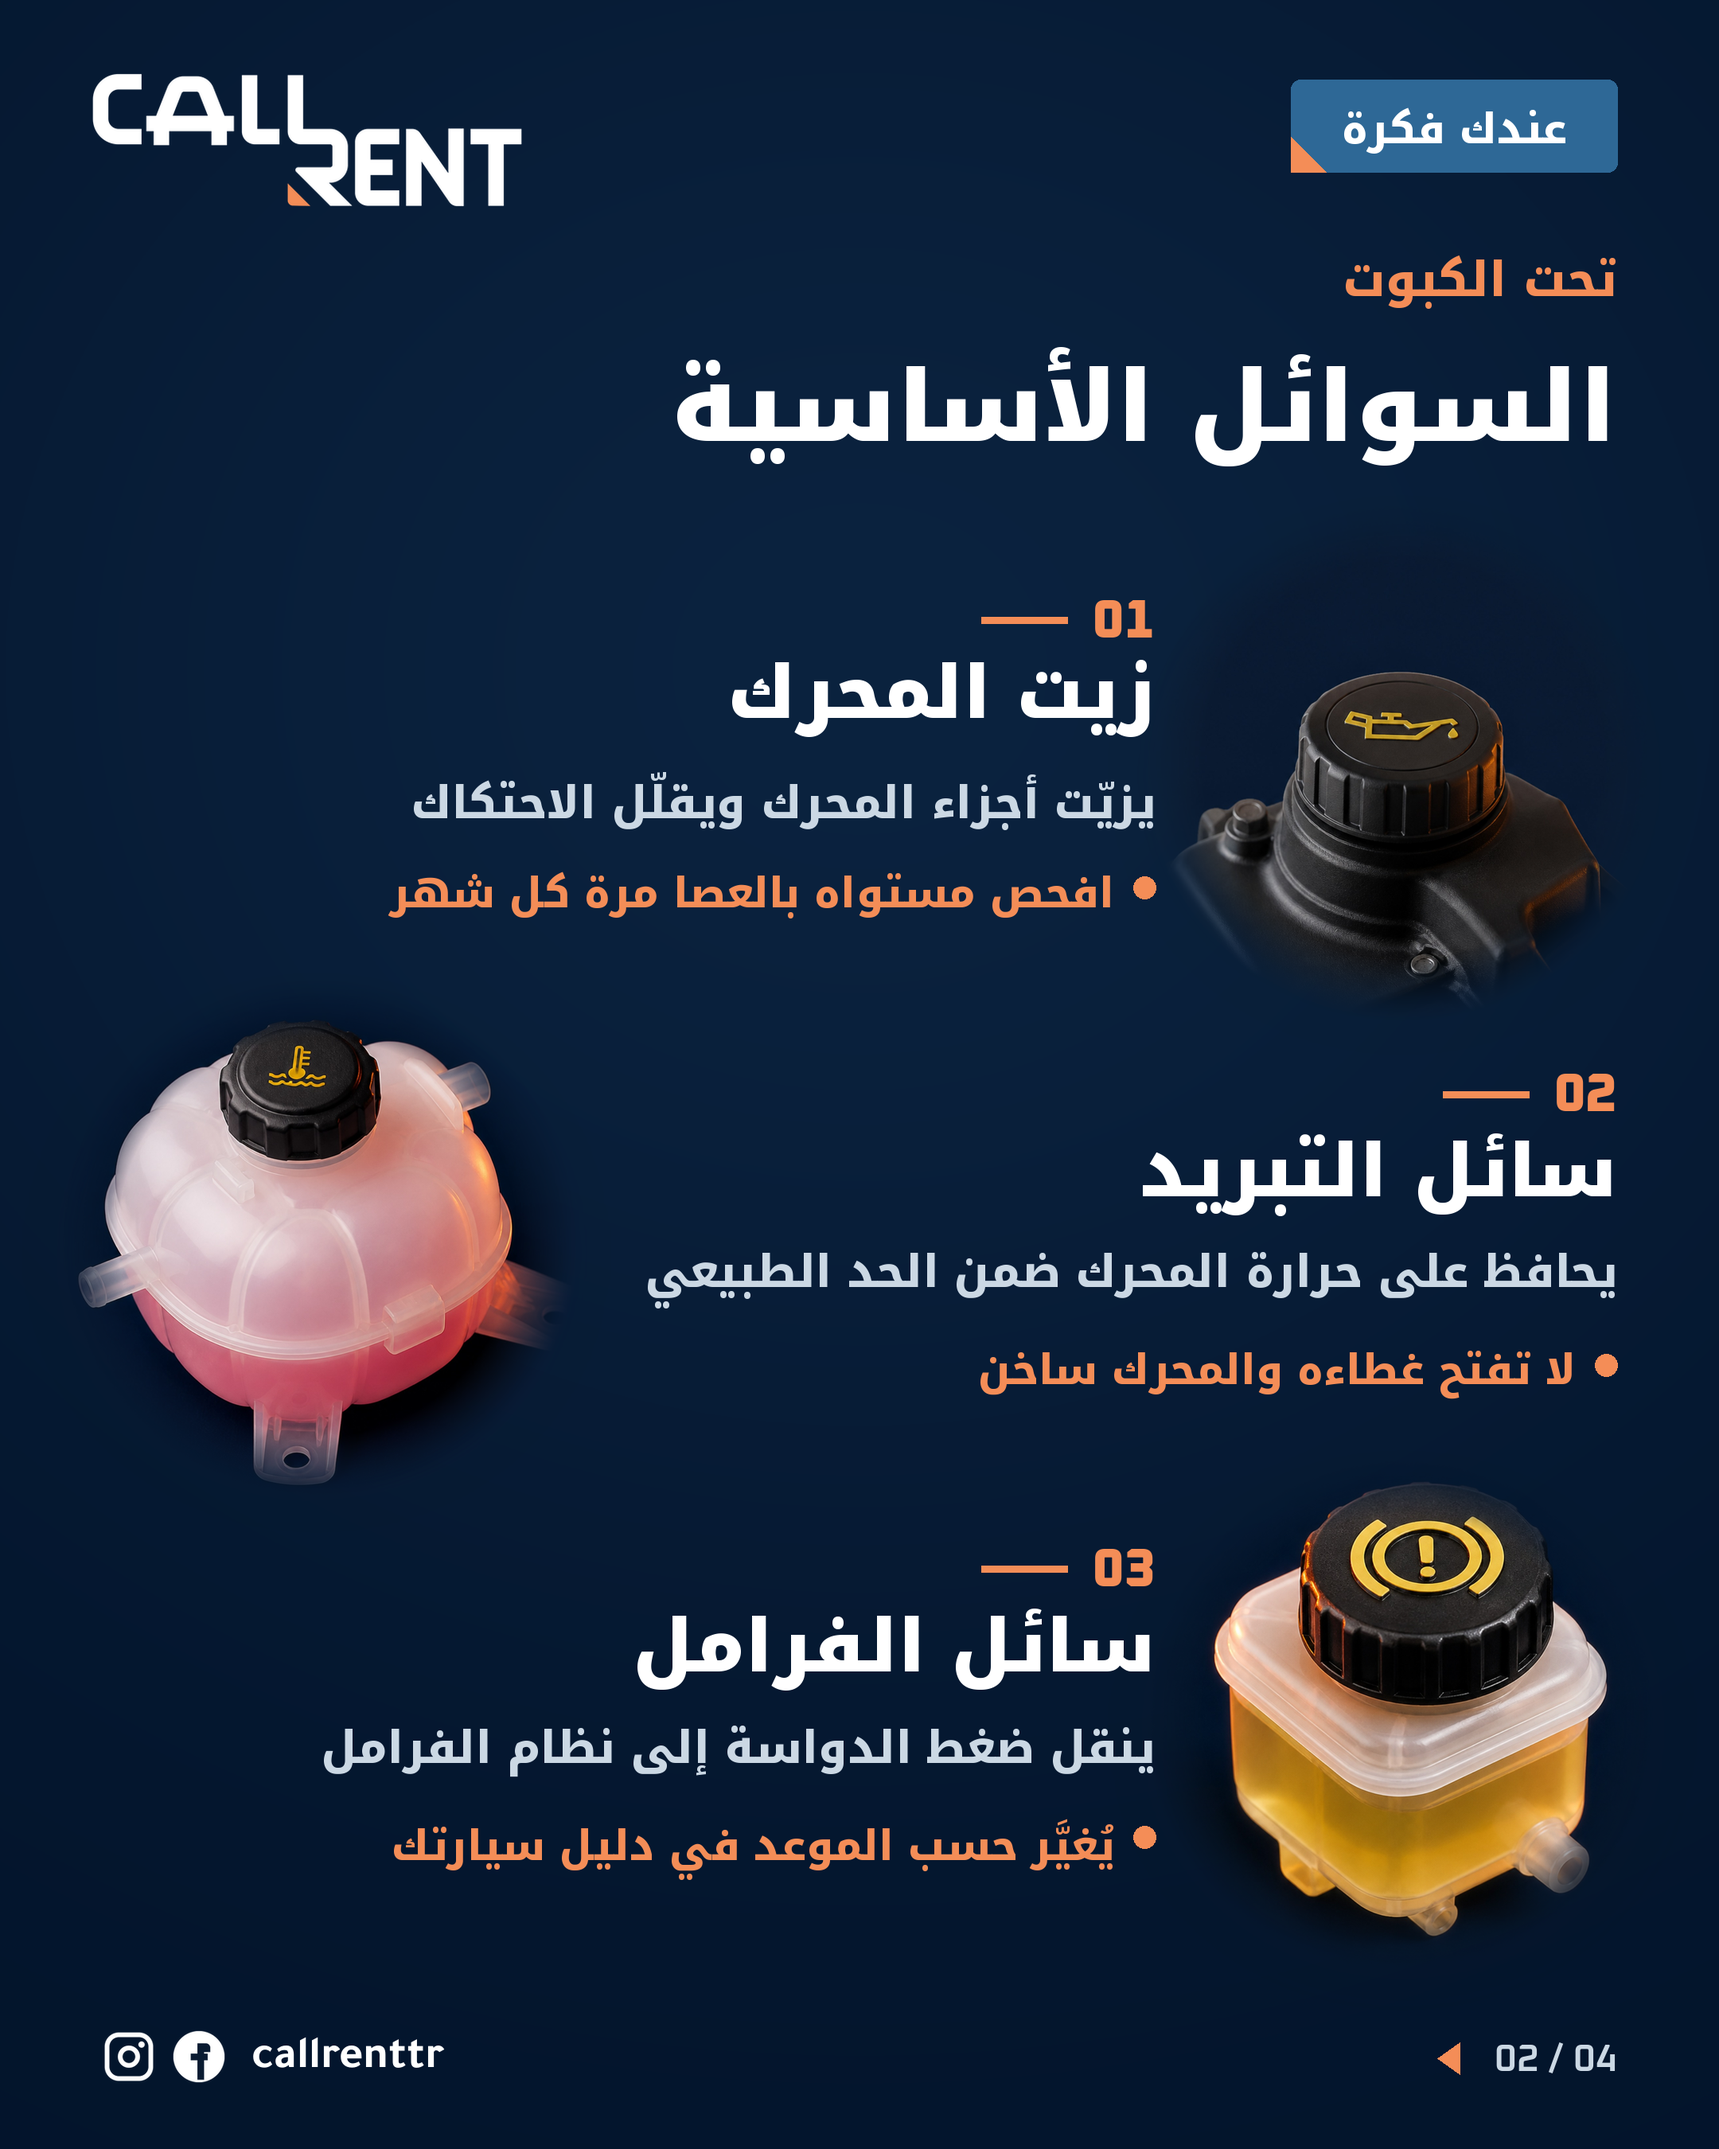
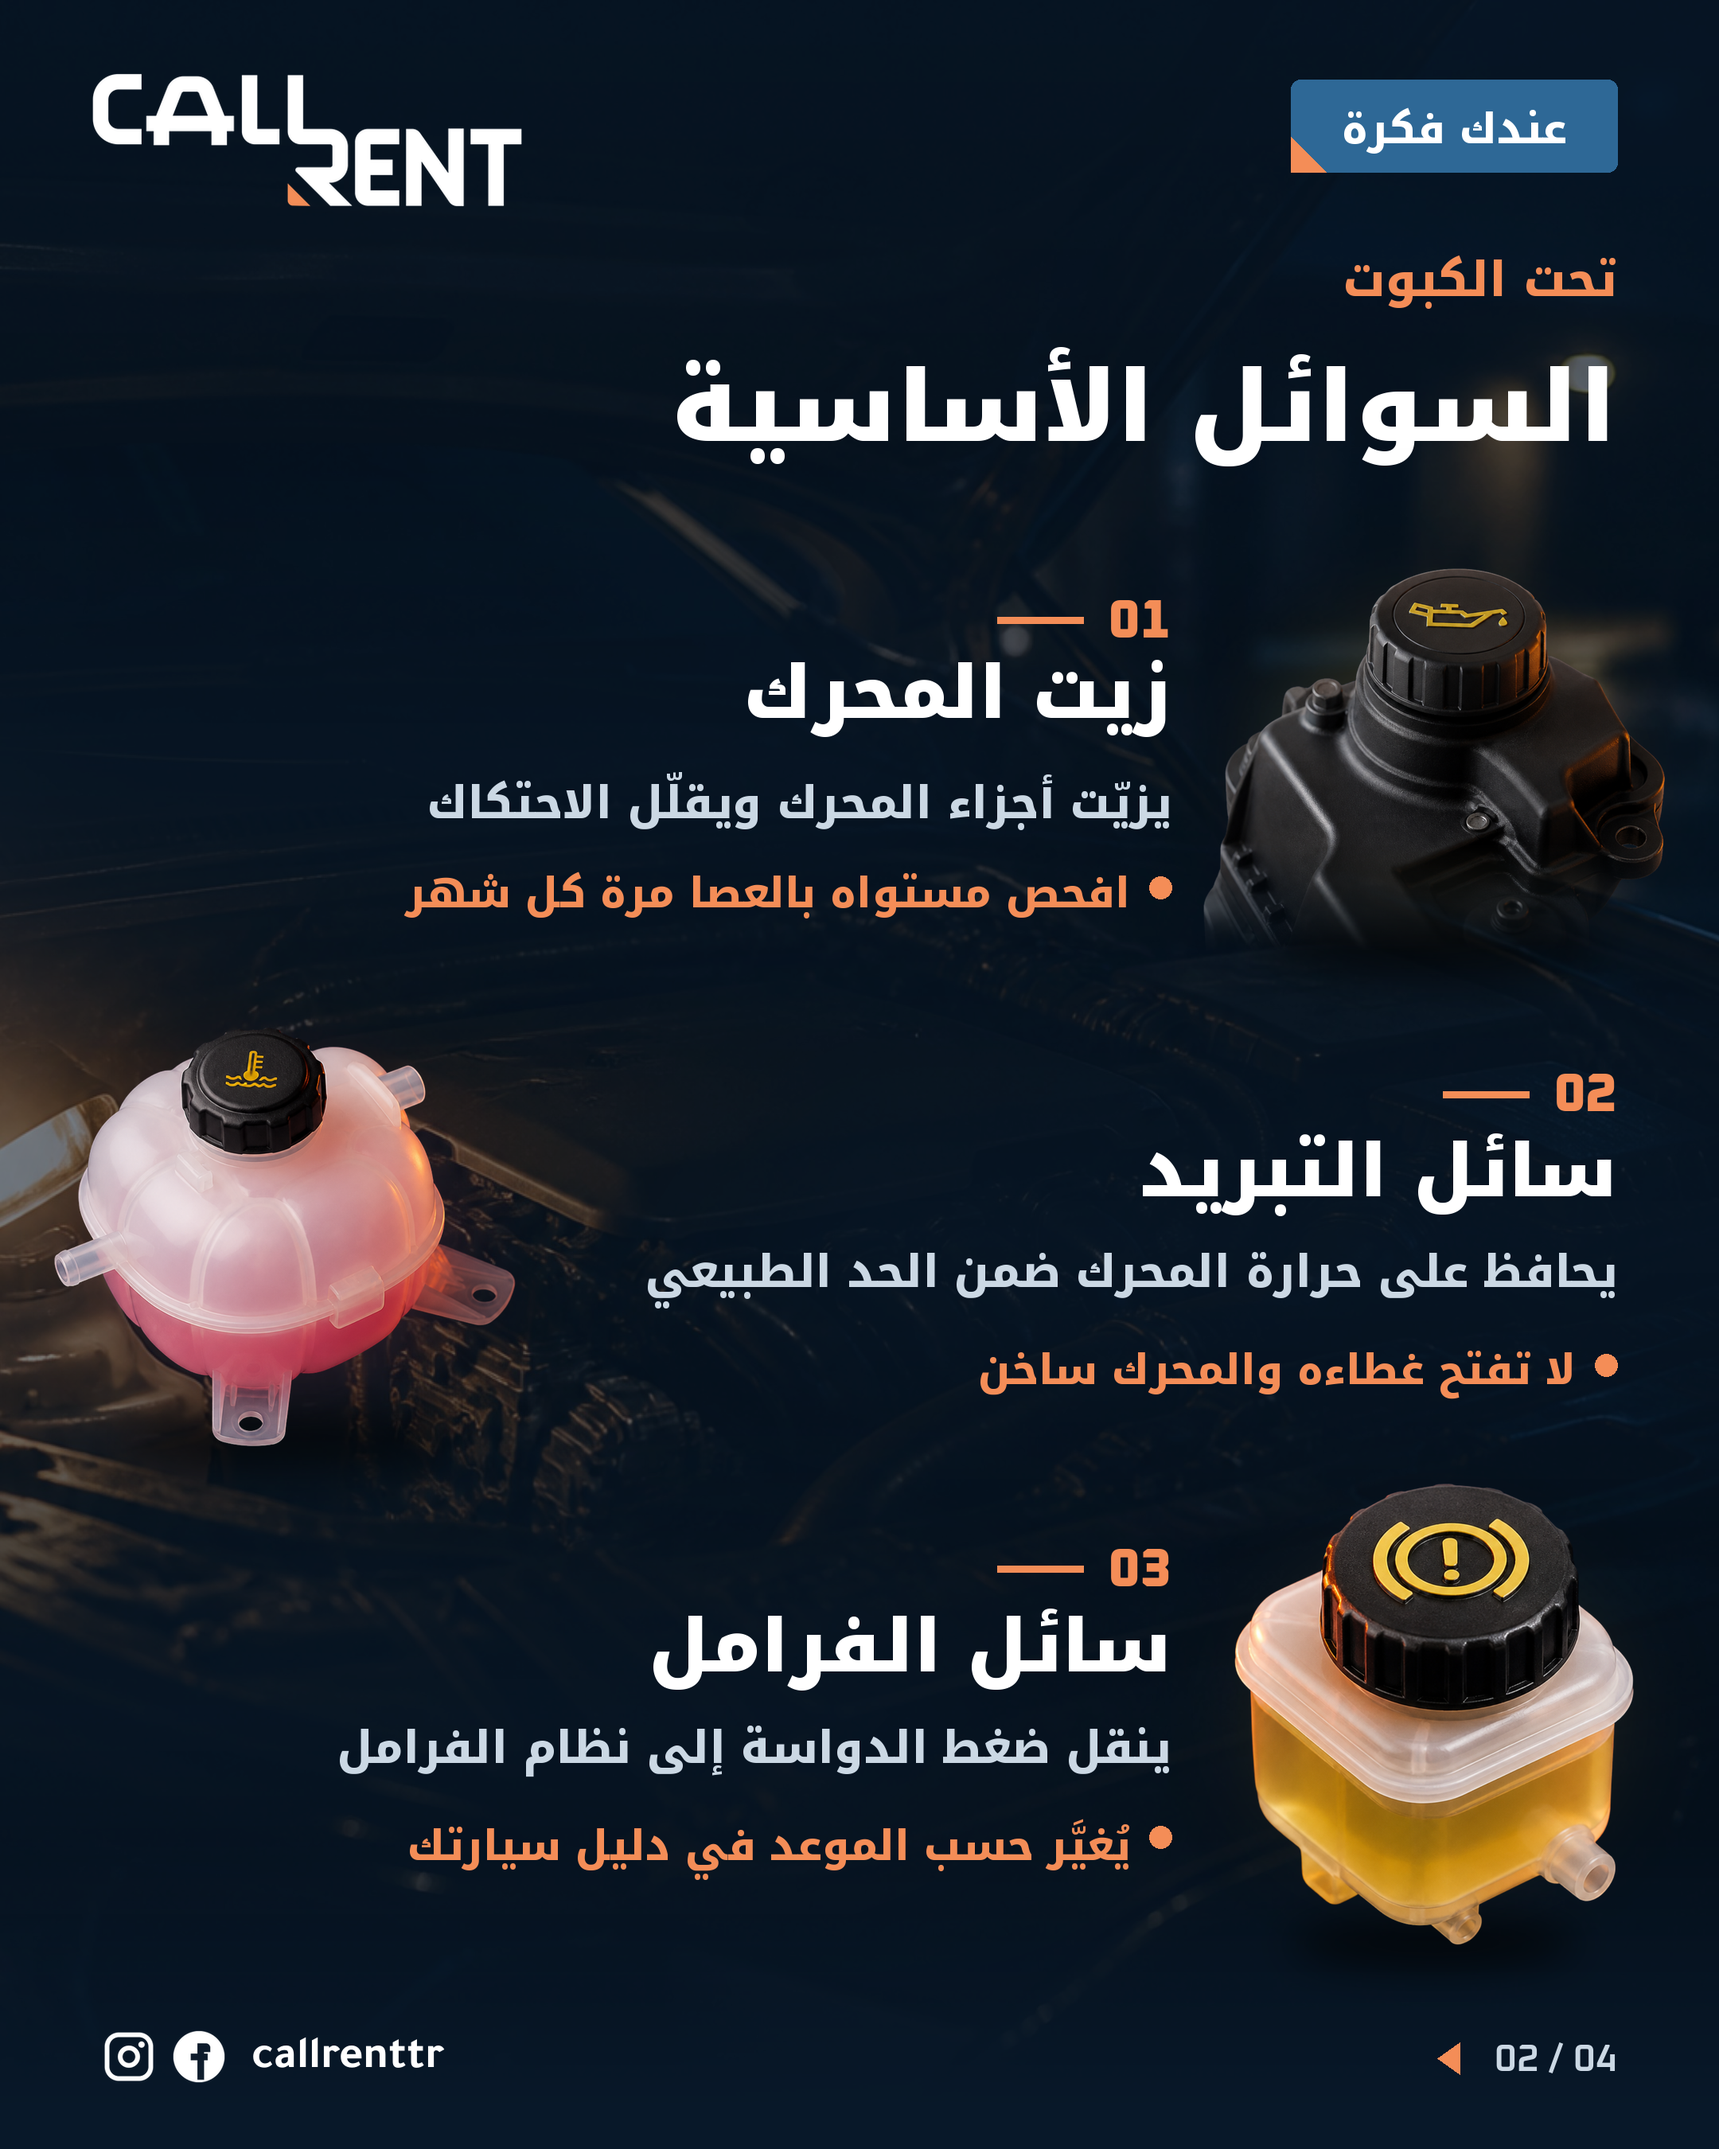
Fluid caps: transparent reservoir cutouts over engine-bay and workshop photo backgrounds
Claude-Session: https://claude.ai/code/session_01JWxxZZBXcuDznNNTjM86b7

diff --git a/marketing/news/idea_fluid_caps.py b/marketing/news/idea_fluid_caps.py
@@ -78,37 +78,46 @@ def page():
 
 
 def product(cv, name, cx, cy, size, glow):
-    """The reservoir shot, feathered with a radial mask; a faint glow of the fluid colour behind it."""
-    g, gd = layer(); gd.ellipse((cx - size*0.36, cy - size*0.30, cx + size*0.36, cy + size*0.36), fill=glow+(70,))
-    cv.alpha_composite(g.filter(ImageFilter.GaussianBlur(40*K)))
-    s = round(size*K)
-    src = Image.open(os.path.join(HERE, name)).convert('RGB'); c = round(src.width*0.13)   # trim the empty backdrop
-    im = src.crop((c, c, src.width - c, src.height - c)).resize((s, s), Image.LANCZOS)
-    yy, xx = np.mgrid[0:s, 0:s].astype(np.float32)/s - 0.5
-    r = np.sqrt(xx**2 + yy**2)
-    m = np.clip((0.50 - r)/0.12, 0, 1)**1.4
-    im = im.convert('RGBA'); im.putalpha(Image.fromarray((m*255).astype(np.uint8)))
-    cv.alpha_composite(im, (round((cx - size/2)*K), round((cy - size/2)*K)))
+    """A transparent cutout fitted inside a size x size box, with a fluid-coloured glow and a soft floor shadow."""
+    im = Image.open(os.path.join(HERE, name)).convert('RGBA')
+    sc = min(size*K/im.width, size*K/im.height); w, h = round(im.width*sc), round(im.height*sc)
+    im = im.resize((w, h), Image.LANCZOS)
+    if name == 'cut-oil.png':                                  # the oil shot is cropped by its frame: fade that edge
+        a = np.asarray(im.getchannel('A')).astype(np.float32)
+        a *= np.clip((h - np.arange(h, dtype=np.float32))/(h*0.28), 0, 1)[:, None]
+        im.putalpha(Image.fromarray(a.astype(np.uint8)))
+    x0, y0 = round(cx*K - w/2), round(cy*K - h/2)
+    g, gd = layer(); gd.ellipse((cx - size*0.40, cy - size*0.34, cx + size*0.40, cy + size*0.34), fill=glow+(80,))
+    cv.alpha_composite(g.filter(ImageFilter.GaussianBlur(44*K)))
+    sh, sd = layer(); by = (y0 + h)/K
+    sd.ellipse((cx - w/K*0.36, by - 18, cx + w/K*0.36, by + 14), fill=(0, 0, 0, 170))
+    cv.alpha_composite(sh.filter(ImageFilter.GaussianBlur(12*K)))
+    cv.alpha_composite(im, (x0, y0))
 
 
 CAPS = [  # photo, glow colour, name, what it does, tip
-    ('res-oil.jpg', (200, 150, 40), 'زيت المحرك', 'يزيّت أجزاء المحرك ويقلّل الاحتكاك', 'افحص مستواه بالعصا مرة كل شهر'),
-    ('res-cool.jpg', (236, 92, 120), 'سائل التبريد', 'يحافظ على حرارة المحرك ضمن الحد الطبيعي', 'لا تفتح غطاءه والمحرك ساخن'),
-    ('res-brake.jpg', (226, 176, 60), 'سائل الفرامل', 'ينقل ضغط الدواسة إلى نظام الفرامل', 'يُغيَّر حسب الموعد في دليل سيارتك'),
-    ('res-washer.jpg', (52, 132, 220), 'سائل المساحات', 'لتنظيف الزجاج الأمامي ووضوح الرؤية', 'استخدم سائلاً لا يتجمّد في الشتاء'),
-    ('res-steer.jpg', (190, 200, 70), 'زيت الباور', 'يشغّل نظام التوجيه الهيدروليكي', 'سيارات حديثة كثيرة توجيهها كهربائي بلا خزان'),
+    ('cut-oil.png', (200, 150, 40), 'زيت المحرك', 'يزيّت أجزاء المحرك ويقلّل الاحتكاك', 'افحص مستواه بالعصا مرة كل شهر'),
+    ('cut-cool.png', (236, 92, 120), 'سائل التبريد', 'يحافظ على حرارة المحرك ضمن الحد الطبيعي', 'لا تفتح غطاءه والمحرك ساخن'),
+    ('cut-brake.png', (226, 176, 60), 'سائل الفرامل', 'ينقل ضغط الدواسة إلى نظام الفرامل', 'يُغيَّر حسب الموعد في دليل سيارتك'),
+    ('cut-washer.png', (52, 132, 220), 'سائل المساحات', 'لتنظيف الزجاج الأمامي ووضوح الرؤية', 'استخدم سائلاً لا يتجمّد في الشتاء'),
+    ('cut-steer.png', (190, 200, 70), 'زيت الباور', 'يشغّل نظام التوجيه الهيدروليكي', 'سيارات حديثة كثيرة توجيهها كهربائي بلا خزان'),
 ]
 
 
 def item(cv, i, num, it, top, bh):
     """One band: photo on the right for even rows, left for odd; text block centred vertically beside it."""
     photo, glow, name, what, tip = it
-    right = i % 2 == 0; size = bh + 30; cy = top + bh/2
+    right = i % 2 == 0; size = bh - 10; cy = top + bh/2
     pcx = R_ - size/2 + 30 if right else M + size/2 - 30
+    sx = np.arange(W*K, dtype=np.float32)/K                       # darken the text side of this band
+    side = np.clip(((pcx - size/2 + 40) - sx)/260, 0, 1) if right else np.clip((sx - (pcx + size/2 - 40))/260, 0, 1)
+    ys = np.arange(H*K, dtype=np.float32)/K; band = np.clip(1 - np.abs(ys - cy)/(bh*0.62), 0, 1)**0.7
+    a = (band[:, None]*side[None, :]*0.55*255).astype(np.uint8)
+    lay = Image.new('RGBA', (W*K, H*K), DEEP+(0,)); lay.putalpha(Image.fromarray(a)); cv.alpha_composite(lay)
     product(cv, photo, pcx, cy, size, glow)
     d = D(cv)
-    tx = (pcx - size/2 + 10) if right else R_                     # right edge of the text column
-    tl = M if right else (pcx + size/2 - 10)                      # left edge
+    tx = (pcx - size/2 - 20) if right else R_                     # right edge of the text column
+    tl = M if right else (pcx + size/2 + 20)                      # left edge
     maxw = tx - tl
     fn, f1, f2, f3 = F('Oxanium-800.ttf', 34), F(AR_BLACK, 46), F(AR_BOLD, 28), F(AR_BOLD, 26)
     rows = [(f'{num:02d}', fn, O, 'num'), (name, f1, Wh, 'name')]
@@ -145,7 +154,7 @@ def tips_box(cv, top, title_, lines_):
     u0, d0 = ink(title_, f0); hs = [ink(t, f1) for t in lines_]
     h = pad + u0 + d0 + sum(22 + u + dd for u, dd in hs) + pad
     lay, ld = layer()
-    ld.rounded_rectangle((M, top, R_, top + h), radius=28, fill=IDEA+(120,), outline=(255, 255, 255, 46), width=1)
+    ld.rounded_rectangle((M, top, R_, top + h), radius=28, fill=(10, 30, 52, 215), outline=(255, 255, 255, 46), width=1)
     cv.alpha_composite(lay); d = D(cv)
     d.rectangle((R_ - 8, top + 28, R_, top + h - 28), fill=O+(255,))
     b = top + pad + u0; ar(d, (R_ - 40, b), title_, f0, Wh); y = b + d0
@@ -156,8 +165,14 @@ def tips_box(cv, top, title_, lines_):
     return top + h
 
 
-def caps_slide(n, label, title, items, first, bh, note=None):
-    cv = page(); d = D(cv); nc.chrome(cv, d, n, TOTAL); d = D(cv)
+def scene(name, items_top, bh, count):
+    cv = nc.bg(name)
+    shade(cv, [(lambda y: np.full_like(y, 0.55), DEEP), (lambda y: (1 - y/420)*0.5, DEEP), (lambda y: (y - 1150)/150*0.85, DEEP)])
+    return cv
+
+
+def caps_slide(n, label, title, items, first, bh, bg, note=None):
+    cv = scene(bg, 0, bh, len(items)); d = D(cv); nc.chrome(cv, d, n, TOTAL); d = D(cv)
     y = stack(d, [(label, F(AR_BOLD, 30), O), (title, F(AR_BLACK, 62), Wh)], 160, R_, 'rs', gap=24)
     top = y + 34
     for i, it in enumerate(items):
@@ -200,8 +215,8 @@ def ask():
 if __name__ == '__main__':
     out = sys.argv[2]; os.makedirs(out, exist_ok=True)
     slides = [cover(),
-              caps_slide(2, 'تحت الكبوت', 'السوائل الأساسية', CAPS[:3], 1, 300),
-              caps_slide(3, 'تحت الكبوت', 'سوائل لا تنسَها', CAPS[3:], 4, 312,
+              caps_slide(2, 'تحت الكبوت', 'السوائل الأساسية', CAPS[:3], 1, 300, 'caps-bg2.jpg'),
+              caps_slide(3, 'تحت الكبوت', 'سوائل لا تنسَها', CAPS[3:], 4, 312, 'caps-bg3.jpg',
                          note=('قبل أن تفتح أي غطاء', ['افحص السوائل والمحرك بارد والسيارة على أرض مستوية',
                                                        'لا تخلط السوائل ببعضها، فلكل غطاء سائله فقط',
                                                        'إذا انخفض أي سائل بسرعة، افحص السيارة عند فني مختص'])),
